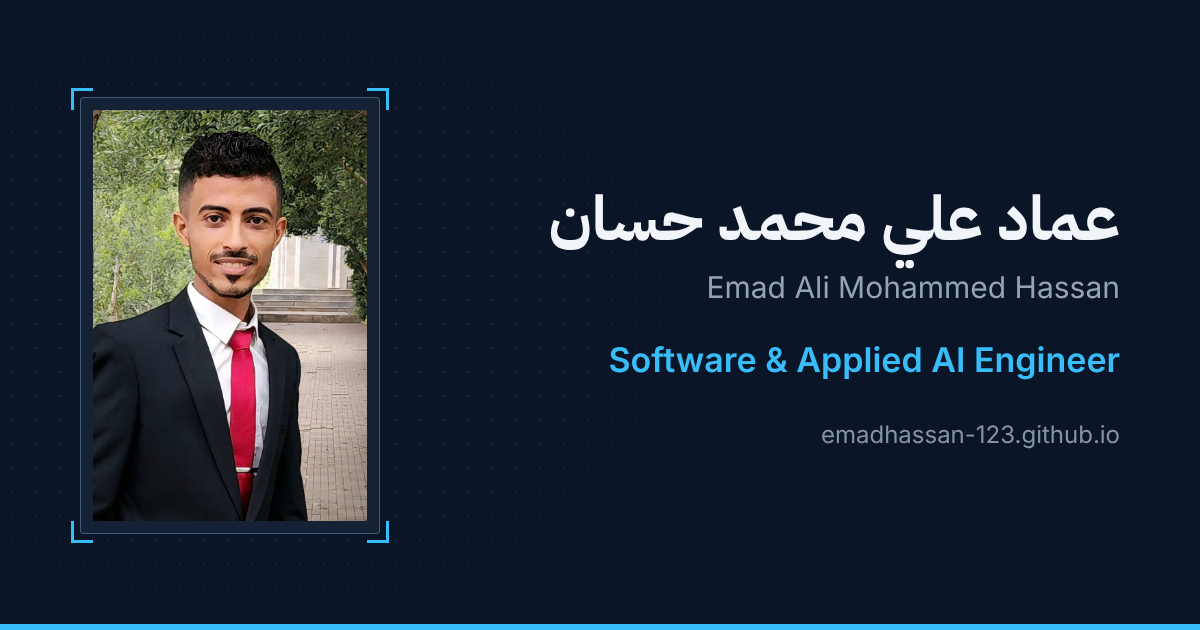
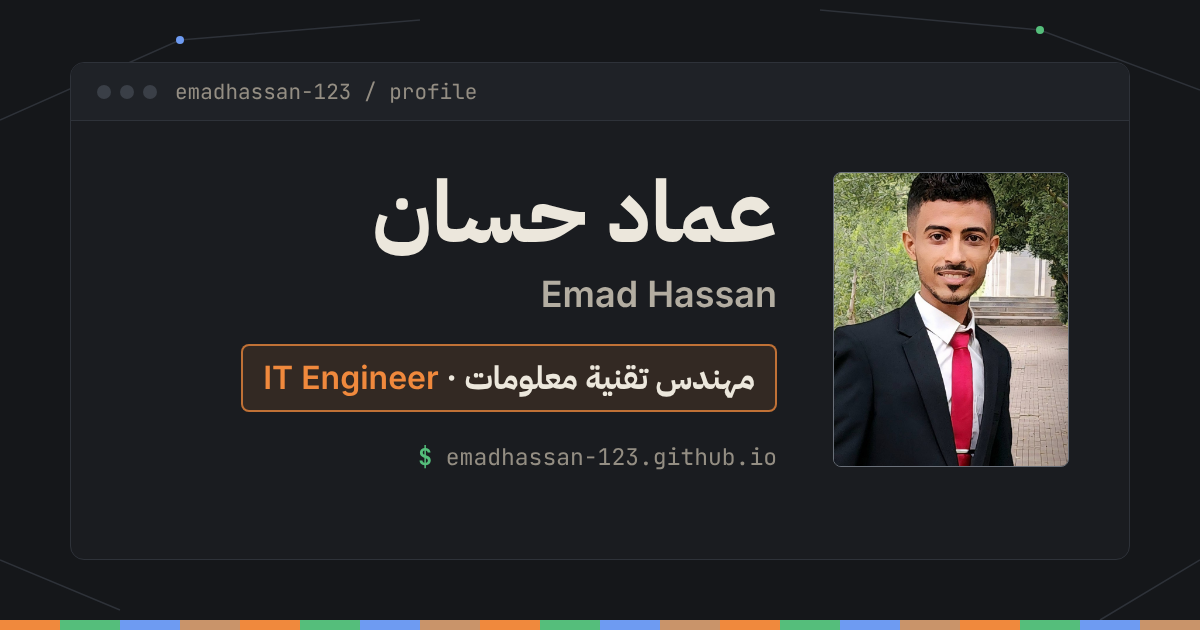
feat(hero): short display name and terminal-typed personal statement
- Display name is Emad Hassan / عماد حسان across titles, hero, footer and JSON-LD
- Personal statement typed at a terminal prompt; full text stays available to
  screen readers, a ghost copy prevents layout shift, reduced motion shows it at once
- Regenerate the Open Graph image with the current identity
- Align JSON-LD knowsAbout with the three hero areas (SFIA 9 names)

diff --git a/src/scripts/typewriter.ts b/src/scripts/typewriter.ts
@@ -1,0 +1,66 @@
+/**
+ * Types the hero statement like a command entered at a terminal prompt.
+ * The full sentence is always in the DOM: screen readers get it from a
+ * visually hidden copy, and a hidden "ghost" copy reserves the final size
+ * so nothing shifts while typing. Skipped under prefers-reduced-motion.
+ */
+export {};
+
+const prompt = document.querySelector<HTMLElement>('[data-typewriter]');
+const reducedMotion = window.matchMedia('(prefers-reduced-motion: reduce)');
+
+const segmenter =
+  'Segmenter' in Intl ? new Intl.Segmenter(undefined, { granularity: 'grapheme' }) : null;
+
+// Graphemes keep Arabic diacritics (e.g. kasra) attached to their letter.
+const graphemes = (text: string): string[] =>
+  segmenter ? Array.from(segmenter.segment(text), (part) => part.segment) : Array.from(text);
+
+// Uneven key intervals read as a person typing; punctuation gets a short pause.
+const delayAfter = (char: string): number => (/[،,;؛.]/.test(char) ? 260 : 28 + Math.random() * 42);
+
+let timer = 0;
+
+function type(): void {
+  if (!prompt) return;
+  window.clearTimeout(timer);
+
+  if (reducedMotion.matches) {
+    prompt.removeAttribute('data-typing');
+    return;
+  }
+
+  const locale = document.documentElement.getAttribute('lang');
+  const line = prompt.querySelector<HTMLElement>(`.prompt__line[data-lang="${locale}"]`);
+  const typed = line?.querySelector<HTMLElement>('.prompt__typed');
+  const text = line?.querySelector('.prompt__ghost')?.textContent?.trim() ?? '';
+  if (!typed || !text) return;
+
+  const chars = graphemes(text);
+  let index = 0;
+  typed.textContent = '';
+  prompt.setAttribute('data-typing', '');
+  prompt.removeAttribute('data-done');
+
+  const step = (): void => {
+    typed.textContent += chars[index] ?? '';
+    index += 1;
+    if (index < chars.length) {
+      timer = window.setTimeout(step, delayAfter(chars[index - 1] ?? ''));
+    } else {
+      prompt.setAttribute('data-done', '');
+    }
+  };
+
+  timer = window.setTimeout(step, 450);
+}
+
+if (prompt) {
+  type();
+  // Retype in the new language when the visitor switches locale.
+  new MutationObserver(type).observe(document.documentElement, {
+    attributes: true,
+    attributeFilter: ['lang'],
+  });
+  reducedMotion.addEventListener('change', type);
+}

diff --git a/src/styles/global.css b/src/styles/global.css
@@ -2745,14 +2745,79 @@ html:not([data-theme]) [data-requires-js] {
     margin-top: 0.75rem;
   }
 
+  /* Personal statement typed at a terminal prompt (see scripts/typewriter.ts). */
   .instance__personal {
-    max-width: 40rem;
+    display: flex;
+    align-items: baseline;
+    gap: 0.625rem;
+    max-width: 42rem;
     margin-top: 1.5rem;
-    padding-inline-start: 0.875rem;
-    border-inline-start: 3px solid rgb(var(--color-accent-primary));
-    font-size: 1.1rem;
+    padding: 0.75rem 1rem;
+    border: 1px solid rgb(var(--color-border));
+    border-radius: 0.375rem;
+    background-color: rgb(var(--color-bg-primary));
+    font-size: 1.05rem;
     line-height: var(--leading-body);
-    color: rgb(var(--color-text-secondary));
+    color: rgb(var(--color-text-primary));
+  }
+
+  .prompt__sign {
+    flex-shrink: 0;
+    font-family: var(--font-mono);
+    font-weight: 700;
+    color: rgb(var(--color-pair-green));
+  }
+
+  .prompt__line[lang='en'] {
+    font-family: var(--font-mono);
+    font-size: 0.95em;
+  }
+
+  .prompt__stack {
+    display: grid;
+  }
+
+  .prompt__ghost,
+  .prompt__typed {
+    grid-area: 1 / 1;
+  }
+
+  .prompt[data-typing] .prompt__ghost {
+    visibility: hidden;
+  }
+
+  .prompt:not([data-typing]) .prompt__typed {
+    display: none;
+  }
+
+  /* Block cursor after the visible text. */
+  .prompt:not([data-typing]) .prompt__ghost::after,
+  .prompt[data-typing] .prompt__typed::after {
+    content: '';
+    display: inline-block;
+    width: 0.55em;
+    height: 1.1em;
+    margin-inline-start: 0.15em;
+    vertical-align: text-bottom;
+    background-color: rgb(var(--color-accent-primary));
+  }
+
+  .prompt[data-done] .prompt__typed::after,
+  .prompt:not([data-typing]) .prompt__ghost::after {
+    animation: prompt-caret 1.1s steps(1) infinite;
+  }
+
+  @keyframes prompt-caret {
+    50% {
+      opacity: 0;
+    }
+  }
+
+  @media (prefers-reduced-motion: reduce) {
+    .prompt .prompt__ghost::after,
+    .prompt .prompt__typed::after {
+      animation: none;
+    }
   }
 
   @media (max-width: 639px) {
@@ -2776,7 +2841,8 @@ html:not([data-theme]) [data-requires-js] {
     }
 
     .instance__personal {
-      font-size: 1rem;
+      padding: 0.625rem 0.75rem;
+      font-size: 0.95rem;
     }
   }
 

diff --git a/src/lib/seo.ts b/src/lib/seo.ts
@@ -27,12 +27,8 @@ export function personJsonLd(site: URL, imageUrl: string): JsonLd {
     address: { '@type': 'PostalAddress', addressLocality: 'Taiz', addressCountry: 'YE' },
     alumniOf: { '@type': 'CollegeOrUniversity', name: 'Taiz University' },
     knowsLanguage: ['ar', 'en'],
-    knowsAbout: [
-      'Software Engineering',
-      'System Architecture',
-      'Applied AI Engineering',
-      'Digital Solutions Engineering',
-    ],
+    // The three areas shown in the hero, named by their SFIA 9 skills.
+    knowsAbout: ['Software development', 'Data science', 'Machine learning', 'Database design'],
     sameAs: [CONTACT.linkedinUrl, CONTACT.facebookUrl, GITHUB_PROFILE_URL],
   };
 }

diff --git a/docs/PHASE4_IMPLEMENTATION_LOG.md b/docs/PHASE4_IMPLEMENTATION_LOG.md
@@ -860,3 +860,33 @@
 - **فحص الـ PR قبل الدمج:** `build` ✅.
 - **Workflow النشر (التشغيل 7):** `build` ✅ (lint، type check، بناء)، `deploy` ✅ → `https://emadhassan-123.github.io/`.
 - **التحقق البصري على الموقع المنشور:** يجريه صاحب المشروع (العنوان غير متاح من شبكة جلسة التطوير).
+
+---
+
+## الاسم المختصر + العبارة بأسلوب سطر الأوامر (17 نوفمبر 2026)
+
+- **قرار صاحب المشروع: الاسم المعروض "عماد حسان / Emad Hassan" فقط، بلا الاسم الرباعي.**
+  - طُبّق على: `site.name`، عنوان الـ Hero، عناوين الصفحات، `alt` الصورة، التذييل، `og:site_name`، والبيانات المنظمة (`Person.name` / `WebSite.name`).
+  - الاسم الرباعي يبقى في `PROJECT_CONTEXT` كسجل هوية، وفي ملفات الشهادات الرسمية كما هي (ملفات أصلية لا تُعدَّل).
+- **العبارة الشخصية `[معتمد]`، بصياغة صاحب المشروع:**
+  - ar: «لا تبنِ ما يعتمد عليك، بل ما يستطيع الآخرون مواصلة البناء عليه.»
+  - en (بالمعنى): "Don't build what depends on you; build what others can keep building on."
+- **العرض: تُكتب حرفاً حرفاً كأمر في سطر الأوامر** (`$` ثم النص ثم مؤشر وامض)، بطلب صاحب المشروع.
+  - `src/scripts/typewriter.ts`: فواصل زمنية غير منتظمة (28–70ms) توحي بكتابة يدوية، ووقفة قصيرة بعد علامات الترقيم. التقطيع بوحدات `Intl.Segmenter` حتى تبقى الحركات العربية (كسرة "تبنِ") مع حرفها.
+  - مدة الكتابة (2–3 ثوانٍ) تتجاوز حد 300ms في `CLAUDE.md` § 3، وهو استثناء بطلب صاحب المشروع. الحركة لا تحجب المحتوى:
+    - **قارئ الشاشة:** نسخة كاملة مخفية بصرياً.
+    - **منع إزاحة التخطيط (CLS):** نسخة شبح كاملة تحجز المساحة؛ الارتفاع قبل الكتابة = بعدها.
+    - **`prefers-reduced-motion`:** النص كاملاً فوراً بلا وميض للمؤشر.
+    - **بلا JavaScript:** النص كاملاً.
+  - عند تبديل اللغة تُعاد الكتابة باللغة الجديدة دون إعادة تحميل.
+  - الخط: JetBrains Mono للإنجليزية، وIBM Plex Sans Arabic للعربية (لا يوجد خط عربي أحادي المسافة ضمن الخطوط المعتمدة).
+- **صورة المشاركة `og-image.png`:** أُعيد توليدها بالهوية الحالية:
+  - الاسم المختصر باللغتين، والمسمى "مهندس تقنية معلومات · IT Engineer".
+  - إطار الـ console، وألوان أزواج الكابل.
+  - النسخة السابقة كانت تحمل الاسم الرباعي والمسمى القديم "Software & Applied AI Engineer".
+- **البيانات المنظمة:** `knowsAbout` حُدِّث إلى المجالات الثلاثة المعروضة في الـ Hero بأسماء SFIA: Software development، Data science، Machine learning، Database design. القيم السابقة (System Architecture، Applied AI Engineering...) لم تعد مطابقة للهوية المعتمدة.
+- **التحقق:**
+  - الكتابة تكتمل، وتُعاد عند تبديل اللغة.
+  - الوضع المخفَّض للحركة وحالة بلا JavaScript يعرضان النص كاملاً.
+  - بلا أخطاء console.
+  - الفحص الشامل (56 عرضاً) بلا مشاكل.
